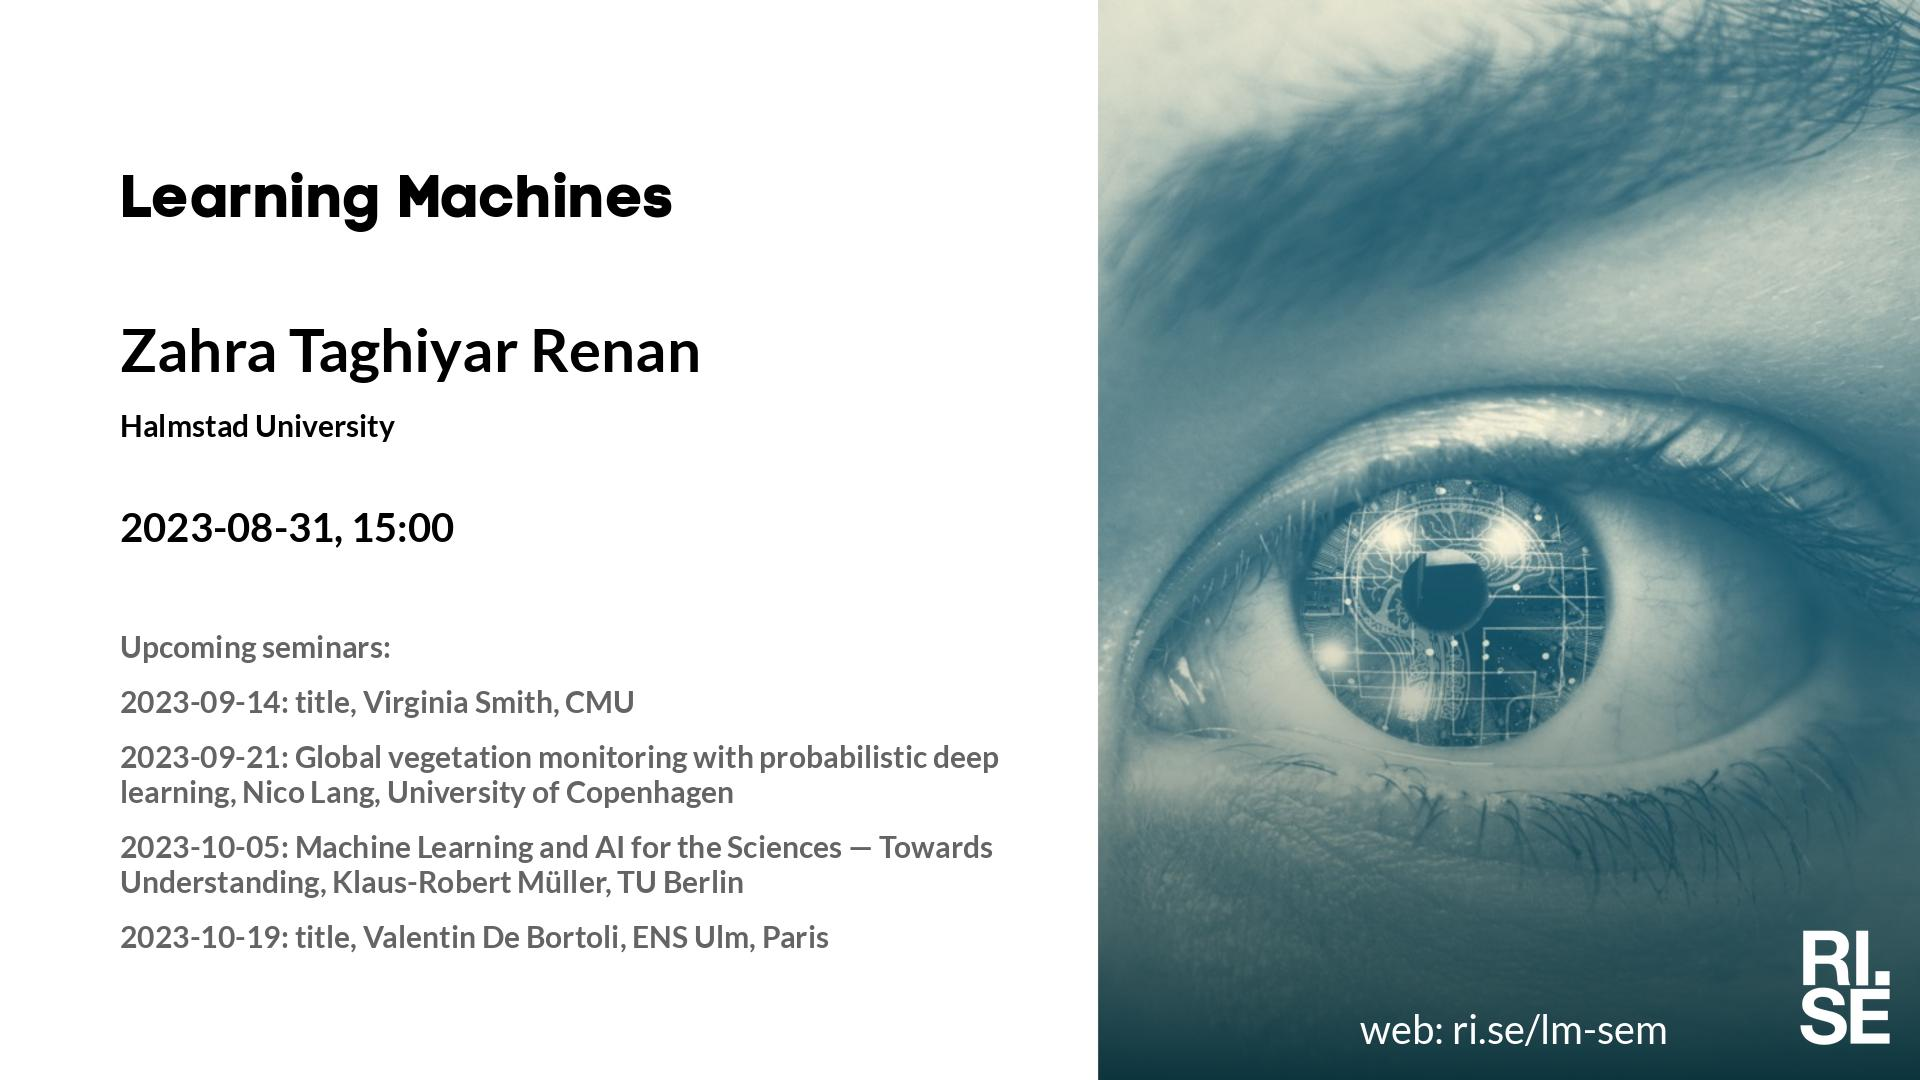
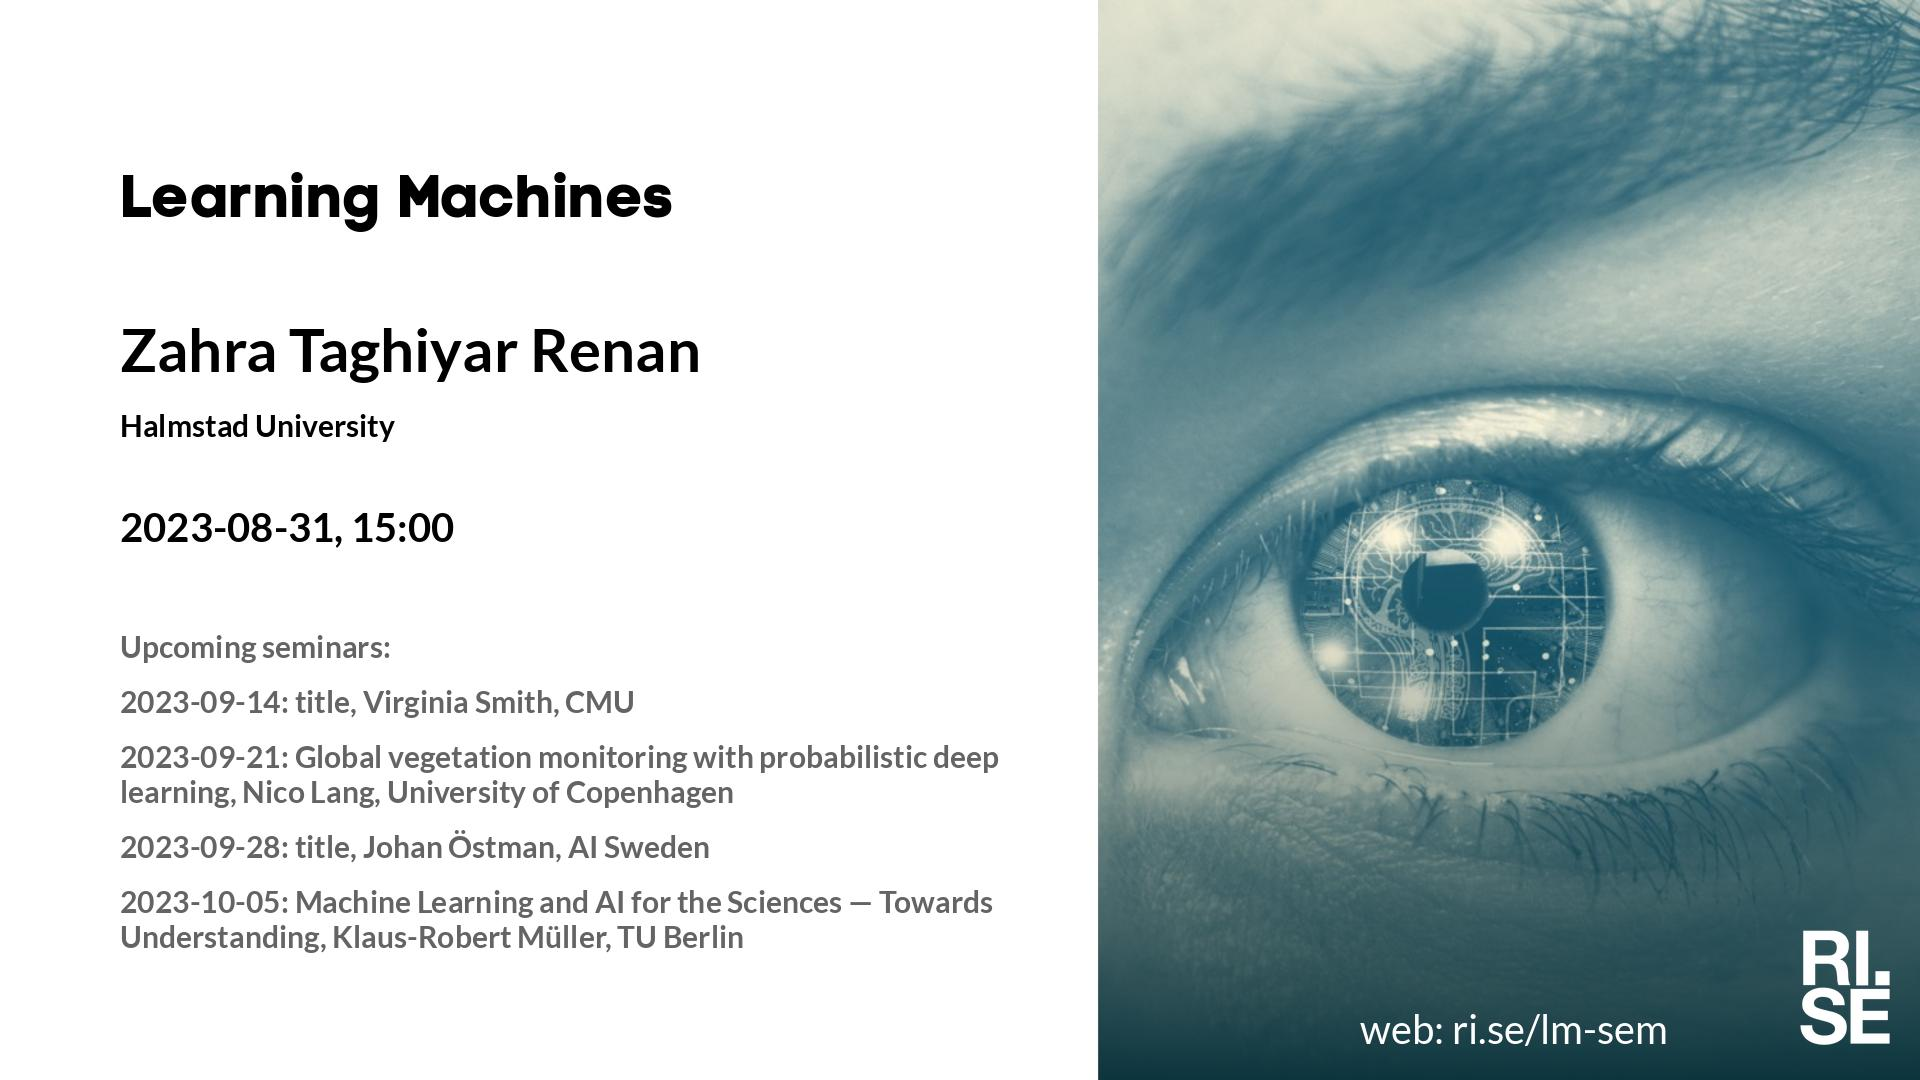
Updated plan on web site.

Changed region(s): [[0.0625, 0.7639, 0.5312, 0.8861]]

diff --git a/lm/index.md b/lm/index.md
@@ -10,7 +10,7 @@ table {border-collapse: collapse;}
 | date | speaker                                   | photo | shareable | meeting backdrop | youtube thumbnail | <a title="Speaker, Title, Abstract, Bio, Photo. Strikethrough means we don't have it yet.">comment</a>        |
 | ---- | ----------------------------------------- | ----- | ----- | ----- | ----- | -------------- |
 |  2023-08-31  |  [Zahra Taghiyar Renan, Halmstad University](2023-08-31.md)  |  [photo](photo-zahra-taghiyar-renan.jpg)  |  [social media ](social-media-zahra-taghiyar-renan.jpg)  |  [meeting backdrop ](meeting-backdrop-zahra-taghiyar-renan.jpg)  |  [youtube thumbnail ](youtube-thumbnail-zahra-taghiyar-renan.jpg)  |  S~~TAB~~P  |
-| <span style="color:grey"> 2023-09-07 </span> | <span style="color:grey"> Adam B. ? or J. Ö. ? </span> | <span style="color:grey">  </span> | <span style="color:grey">  </span> | <span style="color:grey">  </span> | <span style="color:grey">  </span> | <span style="color:grey"> ?~~TABP~~ </span> |
+| <span style="color:grey"> 2023-09-07 </span> | <span style="color:grey"> Adam B. ? </span> | <span style="color:grey">  </span> | <span style="color:grey">  </span> | <span style="color:grey">  </span> | <span style="color:grey">  </span> | <span style="color:grey"> ?~~TABP~~ </span> |
 |  2023-09-14  |  [Virginia Smith, CMU](2023-09-14.md)  |  [photo](photo-virginia-smith.jpg)  |  [social media ](social-media-virginia-smith.jpg)  |  [meeting backdrop ](meeting-backdrop-virginia-smith.jpg)  |  [youtube thumbnail ](youtube-thumbnail-virginia-smith.jpg)  |  S~~TAB~~P  |
 |  2023-09-21  |  [Nico Lang, University of Copenhagen](2023-09-21.md)  |  [photo](photo-nico-lang.jpg)  |  [social media ](social-media-nico-lang.jpg)  |  [meeting backdrop ](meeting-backdrop-nico-lang.jpg)  |  [youtube thumbnail ](youtube-thumbnail-nico-lang.jpg)  |  STABP  |
 |  2023-09-28  |  [Johan Östman, AI Sweden](2023-09-28.md)  |    |  [social media ](social-media-johan-ostman.jpg)  |  [meeting backdrop ](meeting-backdrop-johan-ostman.jpg)  |  [youtube thumbnail ](youtube-thumbnail-johan-ostman.jpg)  |  S~~TABP~~  |

diff --git a/lm/2023-08-31.md b/lm/2023-08-31.md
@@ -20,8 +20,8 @@ Welcome to this week's Learning Machines seminar.
 
 * 2023-09-14: *title*, Virginia Smith, CMU
 * 2023-09-21: *Global vegetation monitoring with probabilistic deep learning*, Nico Lang, University of Copenhagen
+* 2023-09-28: *title*, Johan Östman, AI Sweden
 * 2023-10-05: *Machine Learning and AI for the Sciences — Towards Understanding*, Klaus-Robert Müller, TU Berlin
-* 2023-10-19: *title*, Valentin De Bortoli, ENS Ulm, Paris
 
 More information and coming seminars: [https://ri.se/lm-sem](https://ri.se/lm-sem)
 
